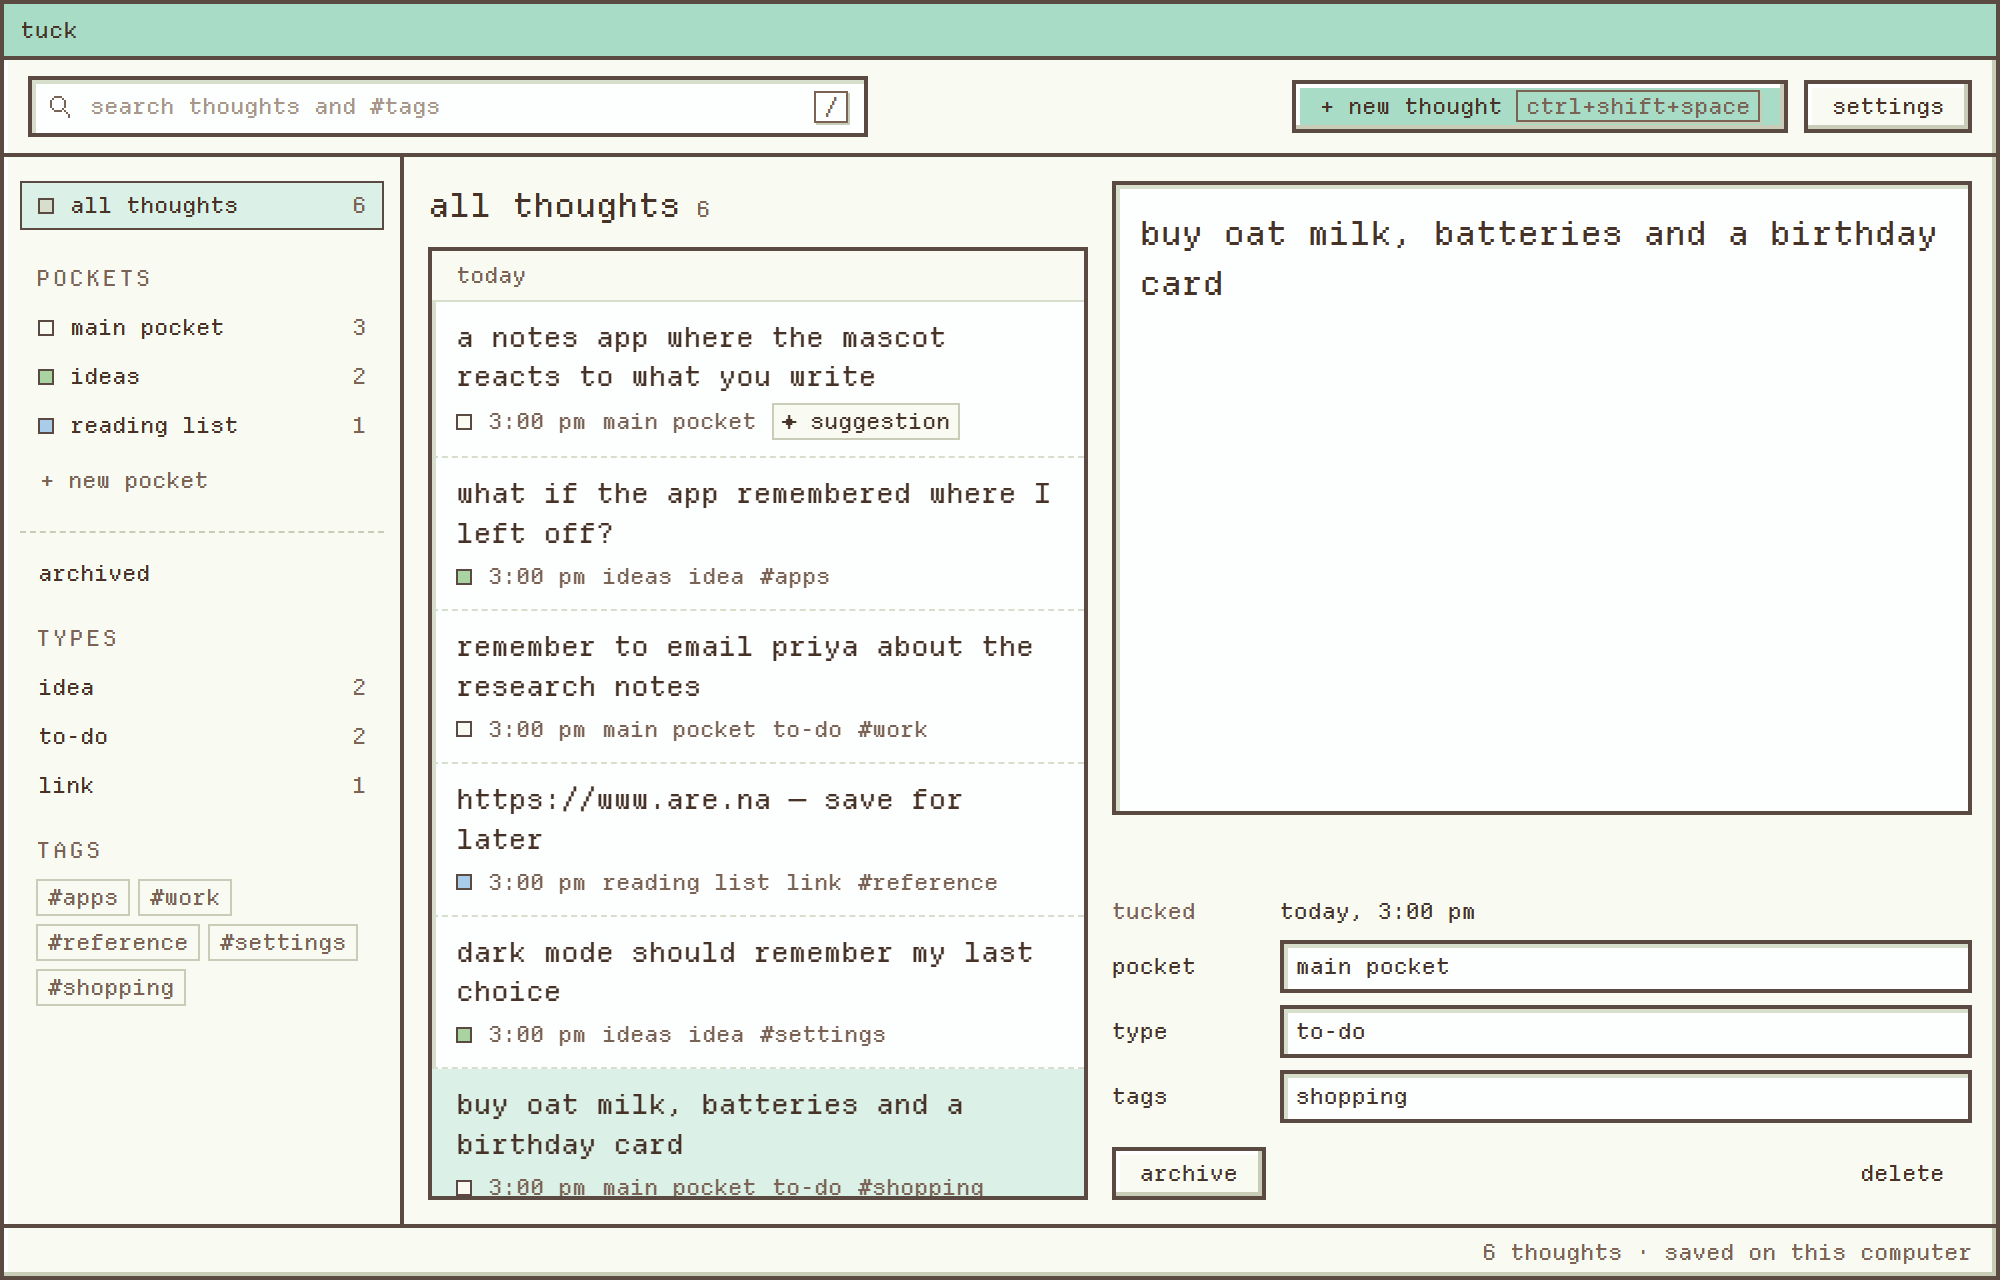
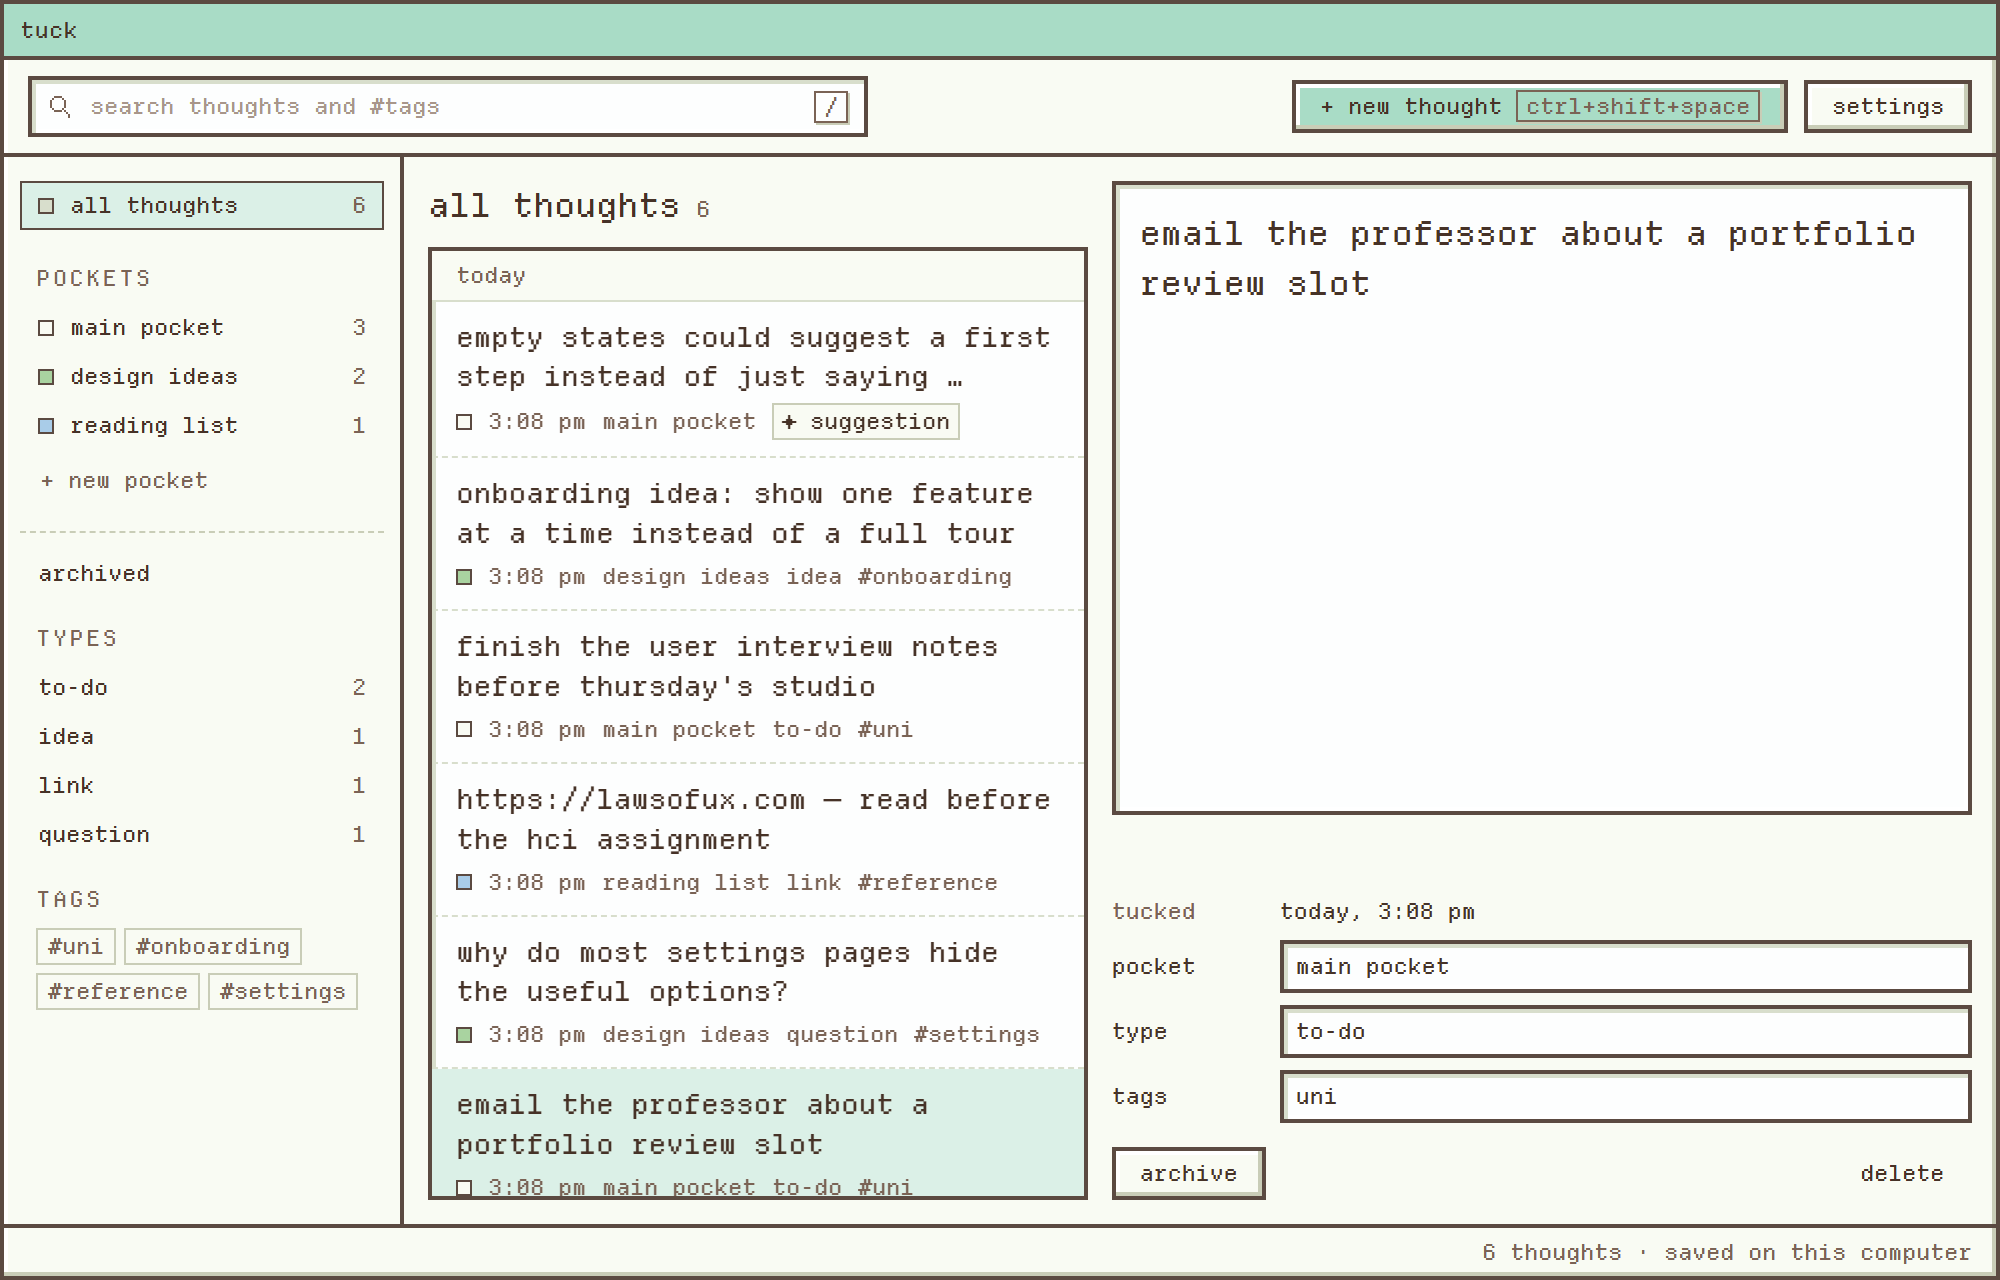
few more changes

diff --git a/src/windows/library/main.ts b/src/windows/library/main.ts
@@ -542,21 +542,21 @@ async function seedDemo() {
   const want = new URLSearchParams(location.search).get("buddy");
   if (!isTauri && want) { const st = await store.load(); await store.saveSettings({ ...st.settings, buddy: want }); }
   if (isTauri || !location.search.includes("demo") || (await store.load()).thoughts.length) return;
-  const pt = await store.addVault("ideas", "sage");
+  const pt = await store.addVault("design ideas", "sage");
   const rd = await store.addVault("reading list", "sky");
   const samples: [string, string | null, string | null, string[]][] = [
-    ["what if the app remembered where I left off?", pt.id, "Idea", ["apps"]],
-    ["remember to email priya about the research notes", null, "To-do", ["work"]],
-    ["https://www.are.na — save for later", rd.id, "Link", ["reference"]],
-    ["dark mode should remember my last choice", pt.id, "Idea", ["settings"]],
-    ["buy oat milk, batteries and a birthday card", null, "To-do", ["shopping"]],
+    ["onboarding idea: show one feature at a time instead of a full tour", pt.id, "Idea", ["onboarding"]],
+    ["finish the user interview notes before thursday's studio", null, "To-do", ["uni"]],
+    ["https://lawsofux.com — read before the hci assignment", rd.id, "Link", ["reference"]],
+    ["why do most settings pages hide the useful options?", pt.id, "Question", ["settings"]],
+    ["email the professor about a portfolio review slot", null, "To-do", ["uni"]],
   ];
   for (const [text, v, category, tags] of samples.reverse()) {
     const t = await store.addThought(text, v);
     await store.updateThought(t.id, { category, tags });
   }
-  const t = await store.addThought("a notes app where the mascot reacts to what you write", null);
-  await store.updateThought(t.id, { suggestion: { category: "Idea", tags: ["apps"], vault_id: pt.id } });
+  const t = await store.addThought("empty states could suggest a first step instead of just saying 'nothing here'", null);
+  await store.updateThought(t.id, { suggestion: { category: "Idea", tags: ["empty-states"], vault_id: pt.id } });
 }
 
 store.onChange(reload);

diff --git a/site/template.html b/site/template.html
@@ -52,8 +52,8 @@
       <div class="tucked" aria-label="Thoughts you tucked in this demo">
         <p class="tucked-label caps">tucked away <span class="muted">(this demo keeps them in your browser tab only)</span></p>
         <ol id="demo-list">
-          <li><span class="t">what if the app remembered where I left off?</span><span class="m">idea · #apps</span></li>
-          <li><span class="t">buy oat milk, batteries and a birthday card</span><span class="m">to-do · #shopping</span></li>
+          <li><span class="t">onboarding idea: show one feature at a time instead of a full tour</span><span class="m">idea · #onboarding</span></li>
+          <li><span class="t">finish the user interview notes before thursday's studio</span><span class="m">to-do · #uni</span></li>
         </ol>
       </div>
     </div>
@@ -87,7 +87,7 @@
   <section class="wrap" id="buddies" aria-labelledby="buddies-title">
     <div class="section-head">
       <h2 id="buddies-title">pick a buddy. the whole app follows.</h2>
-      <p>nine of them, drawn pixel by pixel. they watch your cursor, blink, breathe, look at what you type, hop when you save, and nap if you leave them alone. click one to see the page change colour, just like the app does.</p>
+      <p>nine of them. they watch your cursor, blink, breathe, look at what you type, hop when you save, and nap if you leave them alone. click one to see the page change colour, just like the app does.</p>
     </div>
     <div class="taskbar" role="radiogroup" aria-label="Choose a buddy" id="cast"></div>
     <p class="cast-note" id="cast-note" aria-live="polite"></p>

diff --git a/docs/research.md b/docs/research.md
@@ -7,7 +7,7 @@ Links were checked at the time of writing.
 
 | reference | what we took | what we didn't |
 | --- | --- | --- |
-| indie desk-pet apps | the low-res "loaf" buddy style, a soft brown outline instead of black, flat pastel fills, white eyes with a moving pupil, a pet that sits on window edges and the taskbar | their characters and names. our cast is drawn from scratch |
+| indie desk-pet apps | the low-res "loaf" buddy style, a soft brown outline instead of black, flat pastel fills, white eyes with a moving pupil, a pet that sits on window edges and the taskbar | their characters and names |
 | [Shimeji](https://sourceforge.net/projects/shimeji-desktop/) desk pets | the behaviour vocabulary: walk, sit, sleep, drag, fall and land | climbing and multiplying. too distracting for a work tool |
 | [98.css](https://thenextweb.com/news/windows-98-css-library-html) / Windows 9x dialogs | hard 2px bevels (light top-left, dark bottom-right), square title bars, chunky buttons that look pressed when clicked | grey everything and blue gradients. we use warm pastels and no gradients |
 | [Poolsuite](https://www.pcworld.com/article/3213692/pump-up-the-summer-jams-with-the-perfect-poolside-radio-station.html) | proof that a retro OS look can feel warm and modern, not ironic | its loudness. tuck stays quiet |

diff --git a/docs/architecture.md b/docs/architecture.md
@@ -32,16 +32,16 @@ One file: `%APPDATA%\app.tuck.desktop\thoughts.json`
   "version": 1,
   "thoughts": [{
     "id": "1a14d5a8c16000394dc",       // time-sortable
-    "text": "what if the app remembered where I left off?",
+    "text": "onboarding idea: show one feature at a time",
     "created_at": 1792299142166,       // ms since 1970
     "updated_at": 1792299142166,
     "vault_id": null,                  // null = main pocket (the data still says "vault")
     "category": "Idea",                // or null
-    "tags": ["apps"],
-    "suggestion": { "category": "Idea", "tags": ["apps"], "vault_id": null },
+    "tags": ["onboarding"],
+    "suggestion": { "category": "Idea", "tags": ["onboarding"], "vault_id": null },
     "archived": false
   }],
-  "vaults": [{ "id": "…", "name": "ideas", "color": "sage", "created_at": 0 }],   // pockets, in the UI
+  "vaults": [{ "id": "…", "name": "design ideas", "color": "sage", "created_at": 0 }],   // pockets, in the UI
   "settings": {
     "shortcut": "Ctrl+Shift+Space", "buddy": "pip",   // "pip" = nibbles (kept for old files)
     "launch_at_login": false, "desk_pet": true, "auto_suggest": true

diff --git a/README.md b/README.md
@@ -123,7 +123,7 @@ just move to your main pocket.
 ### little suggestions
 
 after you save, tuck sometimes guesses things like *"this looks like an idea.
-tags: #apps. pocket: ideas"*. you'll see a small **✦ suggestion**
+tags: #onboarding. pocket: design ideas"*. you'll see a small **✦ suggestion**
 on the thought. open it and pick **use this** or **no thanks**.
 
 it never changes what you actually wrote. and it all happens on your computer.
@@ -277,8 +277,7 @@ npm run app:build   # make the installer
 ## thanks
 
 the font is [Departure Mono](https://departuremono.com) by Helena Zhang. the
-buddies were drawn from scratch, pixel by pixel. the look owes a lot to old
-Windows pop-ups and little desk pets.
+look owes a lot to old Windows pop-ups and little desk pets.
 
 tuck is free and open source under the [MIT licence](LICENSE).
 
